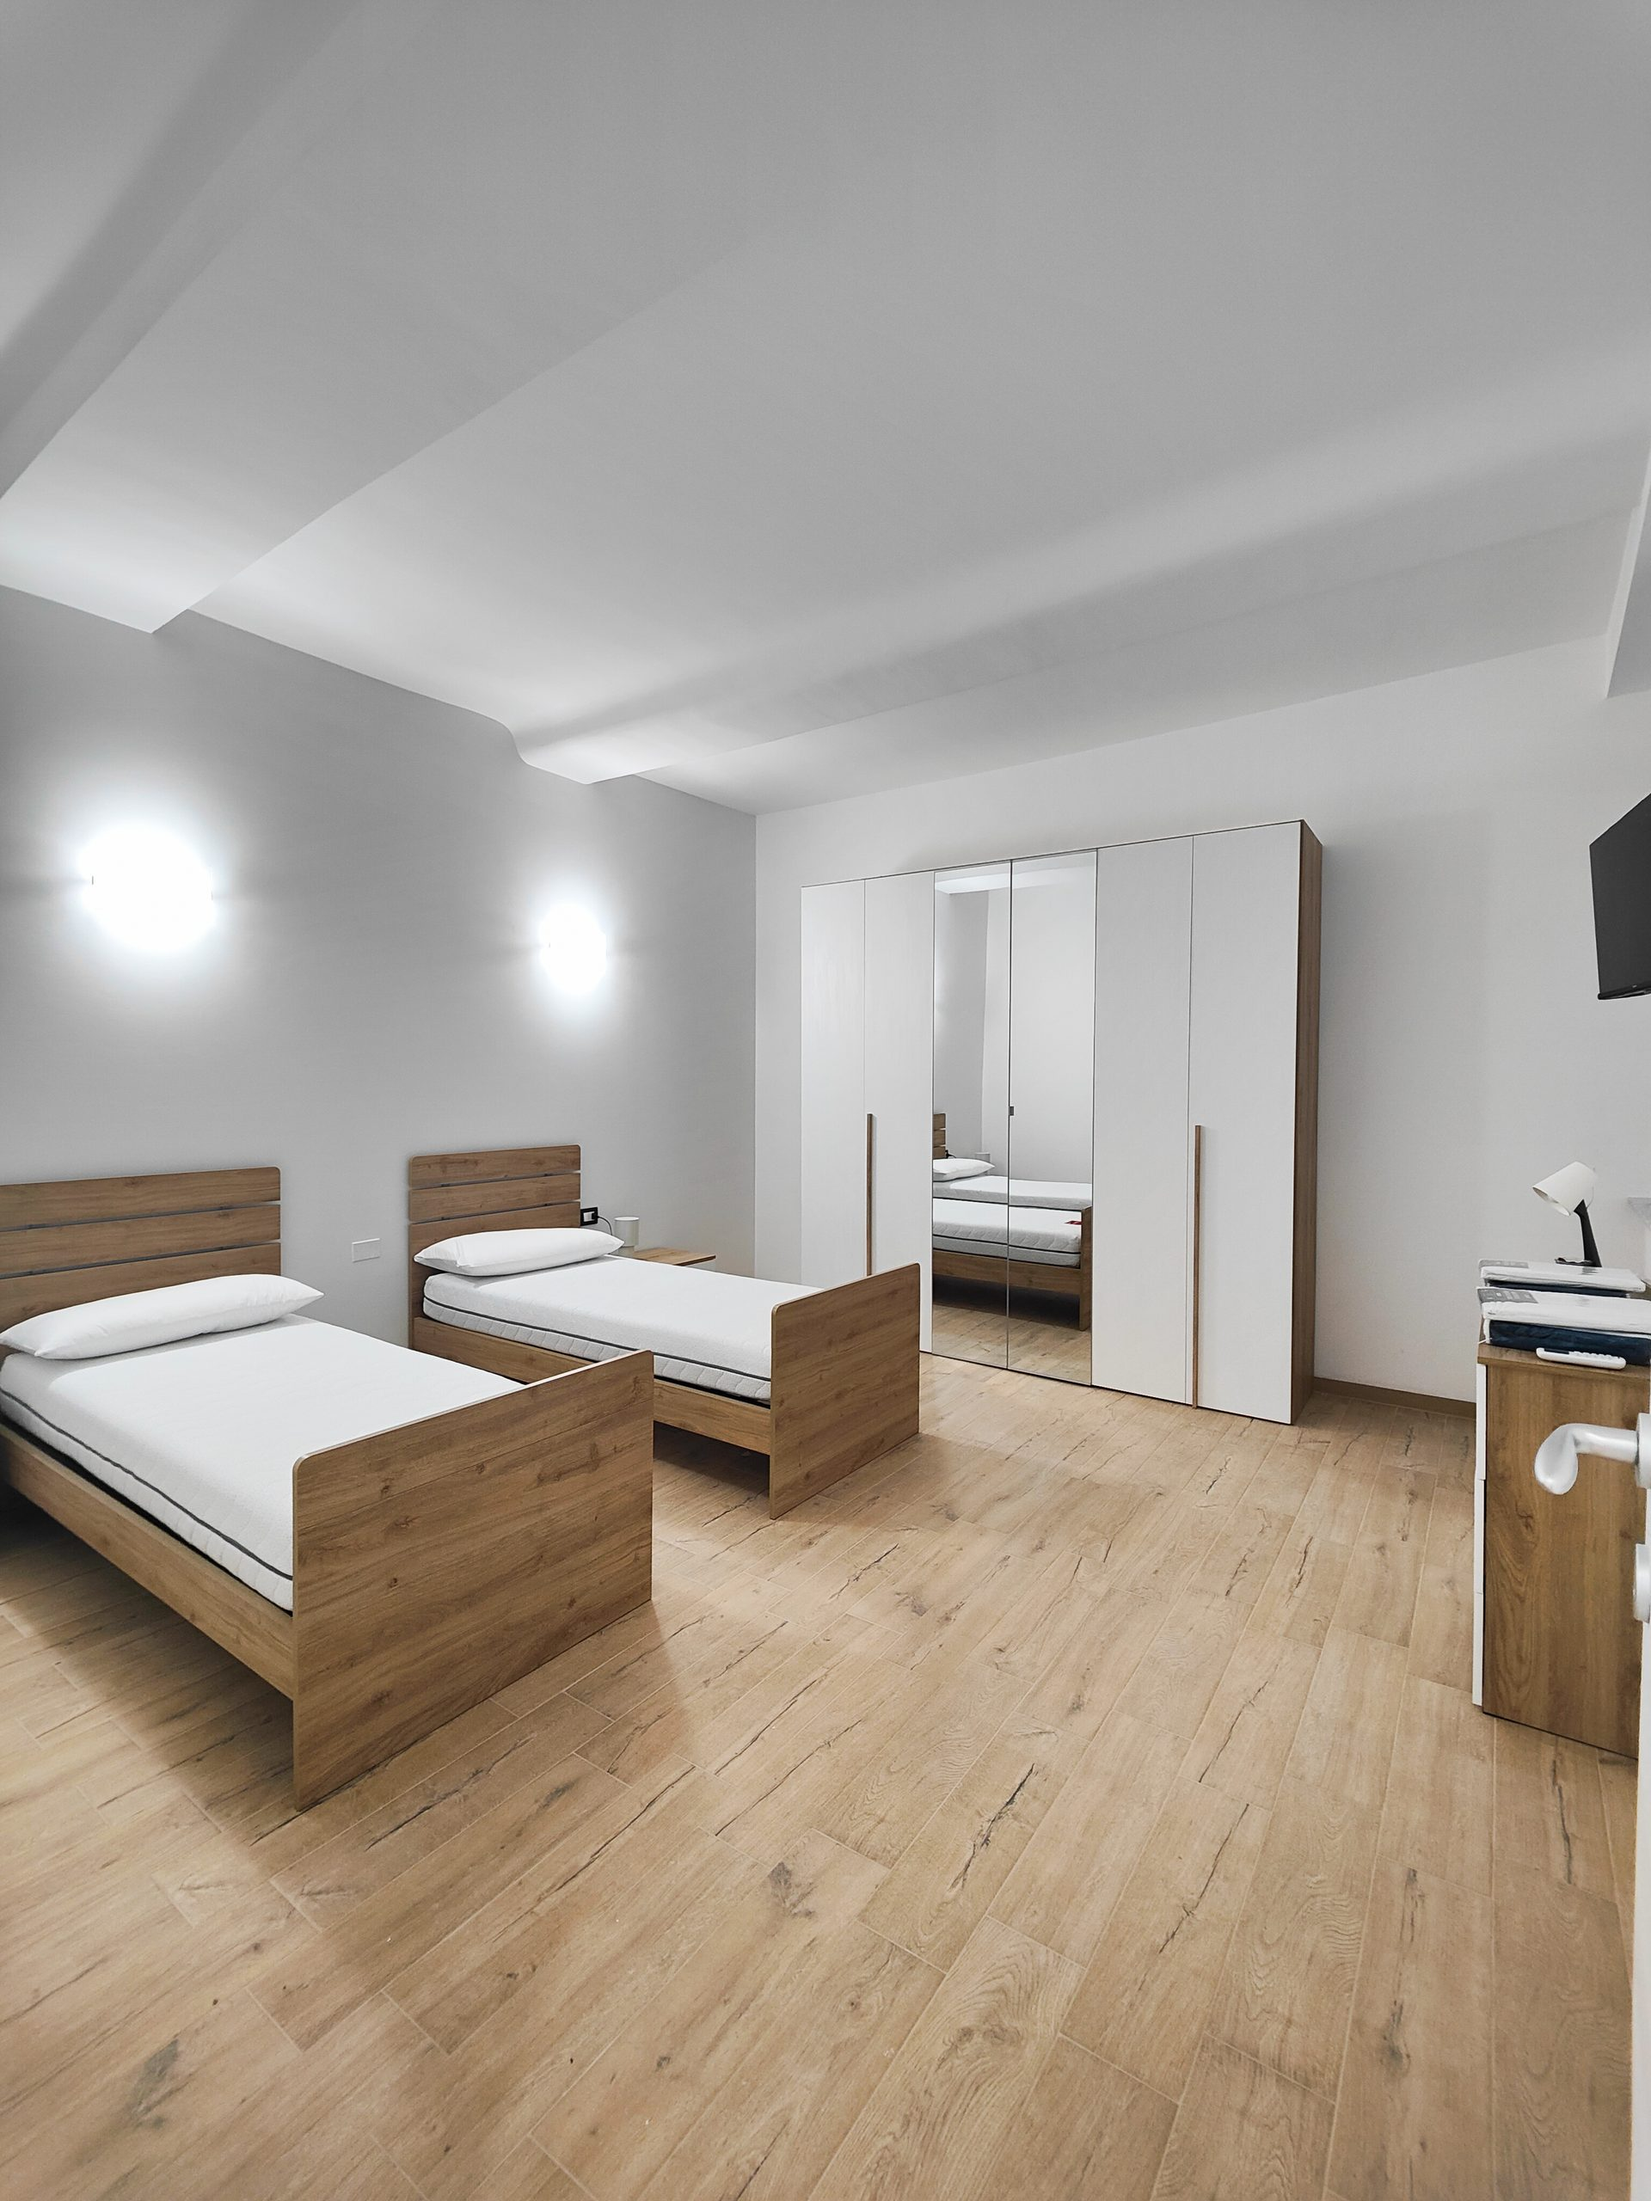
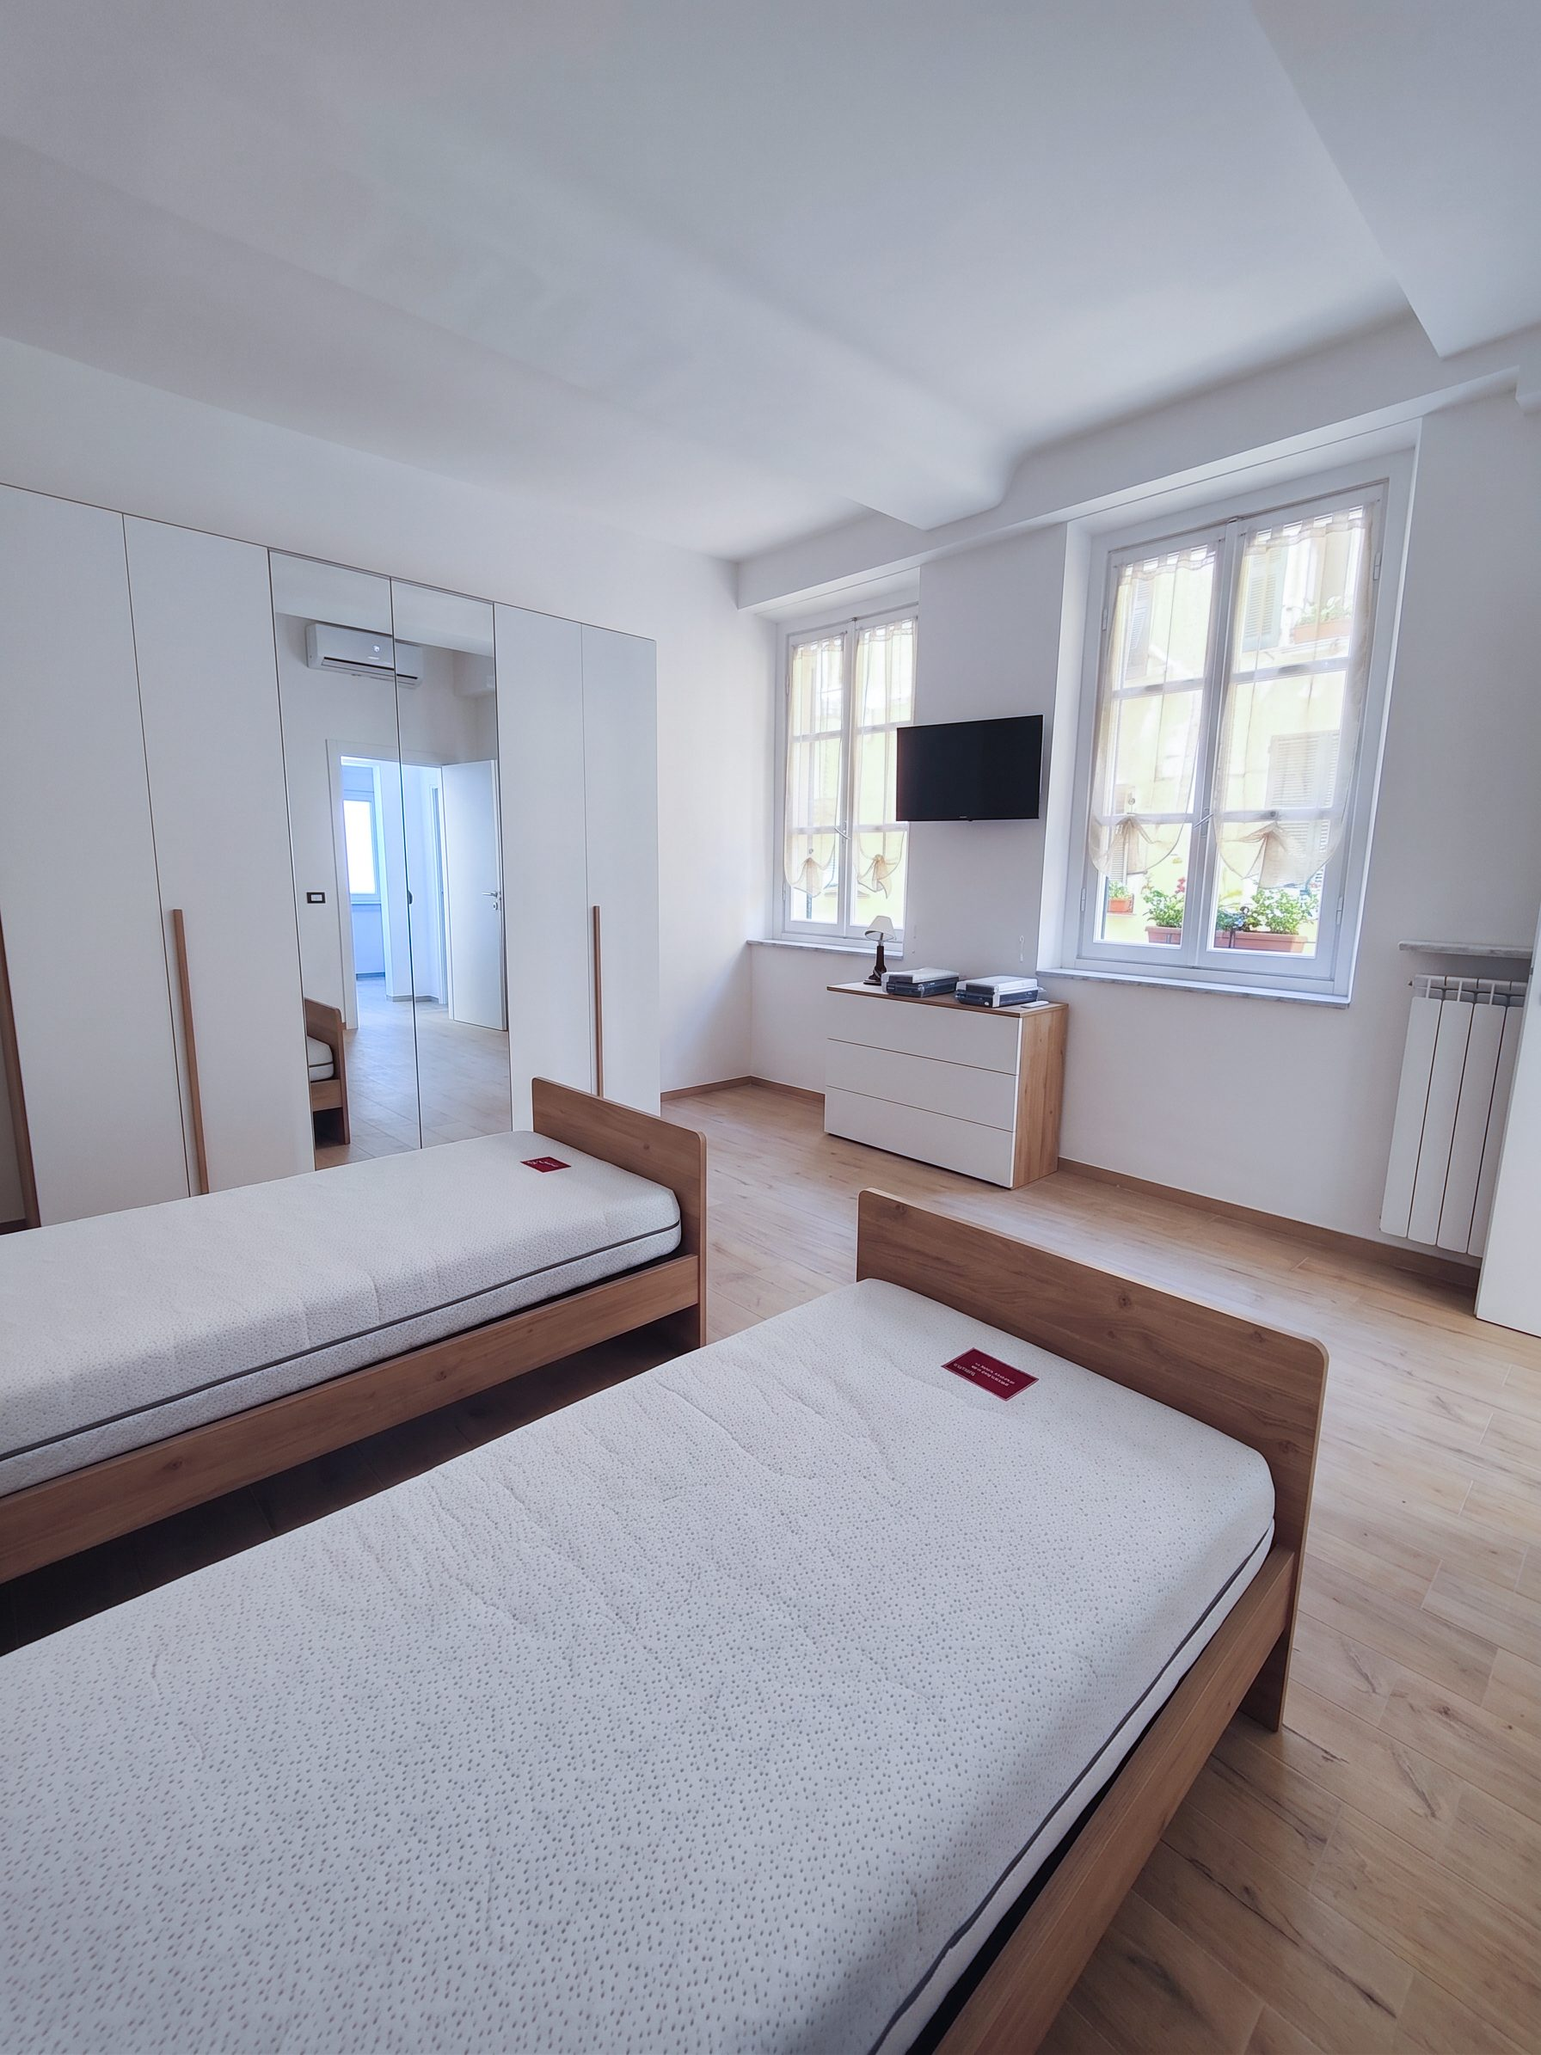
versione 2.9
Corretto immagine stanza doppia

diff --git a/es/index.html b/es/index.html
@@ -1,5 +1,5 @@
 <!DOCTYPE html>
-<!-- v=2.8 | 2026-06-07 -->
+<!-- v=2.9 | 2026-06-07 -->
 <html lang="es">
 <head>
   <meta charset="UTF-8" />
@@ -1398,7 +1398,7 @@
           <span class="apt-price-num">€ 2.150</span>
           <span class="apt-price-mo">/mese</span>
         </div>
-        <p class="apt-price-note">Tarifa base · contratos 6–12 meses</p>
+        <p class="apt-price-note">Tarifa de referencia para contratos 6–12 meses · otras duraciones bajo petición</p>
         <p class="apt-note">✓ 100% deducible · Contrato registrado</p>
         <p class="apt-utilities-note">
           <svg width="11" height="11" viewBox="0 0 24 24" fill="none" stroke="currentColor" stroke-width="2"><circle cx="12" cy="12" r="10"/><line x1="12" y1="8" x2="12" y2="12"/><line x1="12" y1="16" x2="12.01" y2="16"/></svg>
@@ -1485,7 +1485,7 @@
           <span class="apt-price-num">€ 1.950</span>
           <span class="apt-price-mo">/mese</span>
         </div>
-        <p class="apt-price-note">Tarifa base · contratos 6–12 meses</p>
+        <p class="apt-price-note">Tarifa de referencia para contratos 6–12 meses · otras duraciones bajo petición</p>
         <p class="apt-note">✓ 100% deducible · Contrato registrado</p>
         <p class="apt-utilities-note">
           <svg width="11" height="11" viewBox="0 0 24 24" fill="none" stroke="currentColor" stroke-width="2"><circle cx="12" cy="12" r="10"/><line x1="12" y1="8" x2="12" y2="12"/><line x1="12" y1="16" x2="12.01" y2="16"/></svg>
@@ -1551,7 +1551,7 @@
           <span class="apt-price-num">€ 2.150</span>
           <span class="apt-price-mo">/mese</span>
         </div>
-        <p class="apt-price-note">Tarifa base · contratos 6–12 meses</p>
+        <p class="apt-price-note">Tarifa de referencia para contratos 6–12 meses · otras duraciones bajo petición</p>
         <p class="apt-note">✓ 100% deducible · Contrato registrado</p>
         <p class="apt-utilities-note">
           <svg width="11" height="11" viewBox="0 0 24 24" fill="none" stroke="currentColor" stroke-width="2"><circle cx="12" cy="12" r="10"/><line x1="12" y1="8" x2="12" y2="12"/><line x1="12" y1="16" x2="12.01" y2="16"/></svg>
@@ -1620,7 +1620,7 @@
           <span class="apt-price-num">€ 1.550</span>
           <span class="apt-price-mo">/mese</span>
         </div>
-        <p class="apt-price-note">Tarifa base · contratos 6–12 meses</p>
+        <p class="apt-price-note">Tarifa de referencia para contratos 6–12 meses · otras duraciones bajo petición</p>
         <p class="apt-note">✓ 100% deducible · Contrato registrado</p>
         <p class="apt-utilities-note">
           <svg width="11" height="11" viewBox="0 0 24 24" fill="none" stroke="currentColor" stroke-width="2"><circle cx="12" cy="12" r="10"/><line x1="12" y1="8" x2="12" y2="12"/><line x1="12" y1="16" x2="12.01" y2="16"/></svg>
@@ -1685,7 +1685,7 @@
           <span class="apt-price-num">€ 1.450</span>
           <span class="apt-price-mo">/mese</span>
         </div>
-        <p class="apt-price-note">Tarifa base · contratos 6–12 meses</p>
+        <p class="apt-price-note">Tarifa de referencia para contratos 6–12 meses · otras duraciones bajo petición</p>
         <p class="apt-note">✓ 100% deducible · Contrato registrado</p>
         <p class="apt-utilities-note">
           <svg width="11" height="11" viewBox="0 0 24 24" fill="none" stroke="currentColor" stroke-width="2"><circle cx="12" cy="12" r="10"/><line x1="12" y1="8" x2="12" y2="12"/><line x1="12" y1="16" x2="12.01" y2="16"/></svg>

diff --git a/fr/index.html b/fr/index.html
@@ -1,5 +1,5 @@
 <!DOCTYPE html>
-<!-- v=2.8 | 2026-06-07 -->
+<!-- v=2.9 | 2026-06-07 -->
 <html lang="fr">
 <head>
   <meta charset="UTF-8" />
@@ -1398,7 +1398,7 @@
           <span class="apt-price-num">€ 2.150</span>
           <span class="apt-price-mo">/mese</span>
         </div>
-        <p class="apt-price-note">Tarif de base · contrats 6–12 mois</p>
+        <p class="apt-price-note">Tarif de référence pour contrats 6–12 mois · autres durées sur demande</p>
         <p class="apt-note">✓ 100% déductible · Contrat enregistré</p>
         <p class="apt-utilities-note">
           <svg width="11" height="11" viewBox="0 0 24 24" fill="none" stroke="currentColor" stroke-width="2"><circle cx="12" cy="12" r="10"/><line x1="12" y1="8" x2="12" y2="12"/><line x1="12" y1="16" x2="12.01" y2="16"/></svg>
@@ -1485,7 +1485,7 @@
           <span class="apt-price-num">€ 1.950</span>
           <span class="apt-price-mo">/mese</span>
         </div>
-        <p class="apt-price-note">Tarif de base · contrats 6–12 mois</p>
+        <p class="apt-price-note">Tarif de référence pour contrats 6–12 mois · autres durées sur demande</p>
         <p class="apt-note">✓ 100% déductible · Contrat enregistré</p>
         <p class="apt-utilities-note">
           <svg width="11" height="11" viewBox="0 0 24 24" fill="none" stroke="currentColor" stroke-width="2"><circle cx="12" cy="12" r="10"/><line x1="12" y1="8" x2="12" y2="12"/><line x1="12" y1="16" x2="12.01" y2="16"/></svg>
@@ -1551,7 +1551,7 @@
           <span class="apt-price-num">€ 2.150</span>
           <span class="apt-price-mo">/mese</span>
         </div>
-        <p class="apt-price-note">Tarif de base · contrats 6–12 mois</p>
+        <p class="apt-price-note">Tarif de référence pour contrats 6–12 mois · autres durées sur demande</p>
         <p class="apt-note">✓ 100% déductible · Contrat enregistré</p>
         <p class="apt-utilities-note">
           <svg width="11" height="11" viewBox="0 0 24 24" fill="none" stroke="currentColor" stroke-width="2"><circle cx="12" cy="12" r="10"/><line x1="12" y1="8" x2="12" y2="12"/><line x1="12" y1="16" x2="12.01" y2="16"/></svg>
@@ -1620,7 +1620,7 @@
           <span class="apt-price-num">€ 1.550</span>
           <span class="apt-price-mo">/mese</span>
         </div>
-        <p class="apt-price-note">Tarif de base · contrats 6–12 mois</p>
+        <p class="apt-price-note">Tarif de référence pour contrats 6–12 mois · autres durées sur demande</p>
         <p class="apt-note">✓ 100% déductible · Contrat enregistré</p>
         <p class="apt-utilities-note">
           <svg width="11" height="11" viewBox="0 0 24 24" fill="none" stroke="currentColor" stroke-width="2"><circle cx="12" cy="12" r="10"/><line x1="12" y1="8" x2="12" y2="12"/><line x1="12" y1="16" x2="12.01" y2="16"/></svg>
@@ -1685,7 +1685,7 @@
           <span class="apt-price-num">€ 1.450</span>
           <span class="apt-price-mo">/mese</span>
         </div>
-        <p class="apt-price-note">Tarif de base · contrats 6–12 mois</p>
+        <p class="apt-price-note">Tarif de référence pour contrats 6–12 mois · autres durées sur demande</p>
         <p class="apt-note">✓ 100% déductible · Contrat enregistré</p>
         <p class="apt-utilities-note">
           <svg width="11" height="11" viewBox="0 0 24 24" fill="none" stroke="currentColor" stroke-width="2"><circle cx="12" cy="12" r="10"/><line x1="12" y1="8" x2="12" y2="12"/><line x1="12" y1="16" x2="12.01" y2="16"/></svg>

diff --git a/en/index.html b/en/index.html
@@ -1,5 +1,5 @@
 <!DOCTYPE html>
-<!-- v=2.8 | 2026-06-07 -->
+<!-- v=2.9 | 2026-06-07 -->
 <html lang="en">
 <head>
   <meta charset="UTF-8" />
@@ -1398,7 +1398,7 @@
           <span class="apt-price-num">€ 2.150</span>
           <span class="apt-price-mo">/mese</span>
         </div>
-        <p class="apt-price-note">Base rate · 6–12 month contracts</p>
+        <p class="apt-price-note">Reference rate for 6–12 month contracts · other durations on request</p>
         <p class="apt-note">✓ 100% deductible · Registered contract</p>
         <p class="apt-utilities-note">
           <svg width="11" height="11" viewBox="0 0 24 24" fill="none" stroke="currentColor" stroke-width="2"><circle cx="12" cy="12" r="10"/><line x1="12" y1="8" x2="12" y2="12"/><line x1="12" y1="16" x2="12.01" y2="16"/></svg>
@@ -1485,7 +1485,7 @@
           <span class="apt-price-num">€ 1.950</span>
           <span class="apt-price-mo">/mese</span>
         </div>
-        <p class="apt-price-note">Base rate · 6–12 month contracts</p>
+        <p class="apt-price-note">Reference rate for 6–12 month contracts · other durations on request</p>
         <p class="apt-note">✓ 100% deductible · Registered contract</p>
         <p class="apt-utilities-note">
           <svg width="11" height="11" viewBox="0 0 24 24" fill="none" stroke="currentColor" stroke-width="2"><circle cx="12" cy="12" r="10"/><line x1="12" y1="8" x2="12" y2="12"/><line x1="12" y1="16" x2="12.01" y2="16"/></svg>
@@ -1551,7 +1551,7 @@
           <span class="apt-price-num">€ 2.150</span>
           <span class="apt-price-mo">/mese</span>
         </div>
-        <p class="apt-price-note">Base rate · 6–12 month contracts</p>
+        <p class="apt-price-note">Reference rate for 6–12 month contracts · other durations on request</p>
         <p class="apt-note">✓ 100% deductible · Registered contract</p>
         <p class="apt-utilities-note">
           <svg width="11" height="11" viewBox="0 0 24 24" fill="none" stroke="currentColor" stroke-width="2"><circle cx="12" cy="12" r="10"/><line x1="12" y1="8" x2="12" y2="12"/><line x1="12" y1="16" x2="12.01" y2="16"/></svg>
@@ -1620,7 +1620,7 @@
           <span class="apt-price-num">€ 1.550</span>
           <span class="apt-price-mo">/mese</span>
         </div>
-        <p class="apt-price-note">Base rate · 6–12 month contracts</p>
+        <p class="apt-price-note">Reference rate for 6–12 month contracts · other durations on request</p>
         <p class="apt-note">✓ 100% deductible · Registered contract</p>
         <p class="apt-utilities-note">
           <svg width="11" height="11" viewBox="0 0 24 24" fill="none" stroke="currentColor" stroke-width="2"><circle cx="12" cy="12" r="10"/><line x1="12" y1="8" x2="12" y2="12"/><line x1="12" y1="16" x2="12.01" y2="16"/></svg>
@@ -1685,7 +1685,7 @@
           <span class="apt-price-num">€ 1.450</span>
           <span class="apt-price-mo">/mese</span>
         </div>
-        <p class="apt-price-note">Base rate · 6–12 month contracts</p>
+        <p class="apt-price-note">Reference rate for 6–12 month contracts · other durations on request</p>
         <p class="apt-note">✓ 100% deductible · Registered contract</p>
         <p class="apt-utilities-note">
           <svg width="11" height="11" viewBox="0 0 24 24" fill="none" stroke="currentColor" stroke-width="2"><circle cx="12" cy="12" r="10"/><line x1="12" y1="8" x2="12" y2="12"/><line x1="12" y1="16" x2="12.01" y2="16"/></svg>
